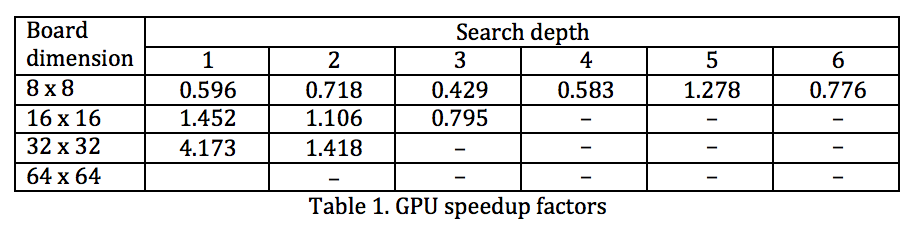
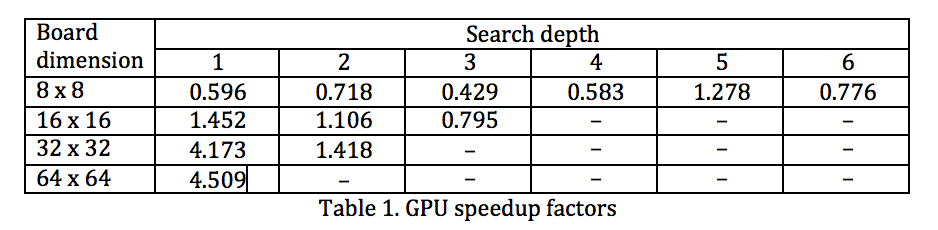
figures, summary, background

Changed region(s): [[0.0, 0.0609, 1.0, 0.9739]]

diff --git a/index.html b/index.html
@@ -33,6 +33,22 @@
       <h6 align="right"><a href="#top">Back to Top</a></h6>
 
       <h2>
+      <a id="summary" class="anchor" href="#summary" aria-hidden="true"><span class="octicon octicon-link"></span></a>Summary</h2>
+      We decided to parallelize the alpha-beta pruning algorithm specifically for playing Othello.
+
+      <h6 align="right"><a href="#top">Back to Top</a></h6>
+
+      <h2>
+      <a id="background" class="anchor" href="#background" aria-hidden="true"><span class="octicon octicon-link"></span></a>Background</h2>
+      We decided to parallelize the alpha-beta pruning algorithm specifically for playing Othello.
+
+      <p>Games like Othello, Chess, and Go have not yet been solved due to their high complexity, and in addition most decision trees used to play these games cannot search to very high depths because of the games’ high branching factors. The <a href="http://en.wikipedia.org/wiki/Minimax">minimax algorithm</a>, which generates a complete decision tree down to a specified depth, is an example of one such algorithm. <a href="http://en.wikipedia.org/wiki/Alpha%E2%80%93beta_pruning">Alpha-beta pruning</a> is a technique built on top of minimax that is used to minimize the number of branches to be searched by determining which branches will have no effect on the outcome anyway, and “pruning” these away. Even with alpha-beta pruning, though, search depths are still very limited, as the time needed to run the algorithm increases by approximately one order of magnitude for every 1-level increase in depth. Thus, we thought that it might be interesting to see if we could parallelize the algorithm to make it run faster. Because the decision tree generated is huge and has many nodes to search through, dividing up the work between multiple threads seemed like a promising way to speed up the computation.</p>
+
+      <p>However, there are aspects to alpha-beta pruning that pose particular challenges to parallelization on the GPU. The search is performed depth-first, and results from earlier branches are used to determine whether later ones should be examined or not. Parallelizing necessarily sacrifices some of this information, since if we want to search multiple branches in parallel those branches don’t have the bounds from each other to work with. Because of this, we may actually end up searching branches that would’ve been pruned in the serialized version. In theory, a thread searching one branch could update the other threads with its bounds when it finishes, but in practice this is difficult to implement on the GPU as it would require blocks to be able to break other blocks out of recursive function calls.</p>
+
+      <h6 align="right"><a href="#top">Back to Top</a></h6>
+
+      <h2>
       <a id="gpu-speedup" class="anchor" href="#gpu-speedup" aria-hidden="true"><span class="octicon octicon-link"></span></a>GPU Speedup</h2>
       <p>Each game was played with the following players:</p>
       CPU: Player (Black) vs. ExamplePlayer (White)
@@ -230,10 +246,25 @@
       </code></pre>
 
       <h5>Board Size: 64 x 64 (Depth 1)</h5>
-      <pre><code>
+      <pre><code>[xlin@mx:~/CS179-Project]> ./testgame 
+      Starting CPU game...
+      CPU Game completed.
+      Black score: 3230
+      White score: 866
+
+      Starting GPU game...
+      GPU Game completed.
+      Black score: 3230
+      White score: 866
+
+      CPU time: 788325 milliseconds
+      GPU time: 174815 milliseconds
+      Speedup factor: 4.50948
       </code></pre>
 
       <img src="Table.png">
+      <br>
+      <img src="Graph.png">
 
       <h6 align="right"><a href="#top">Back to Top</a></h6>
 
